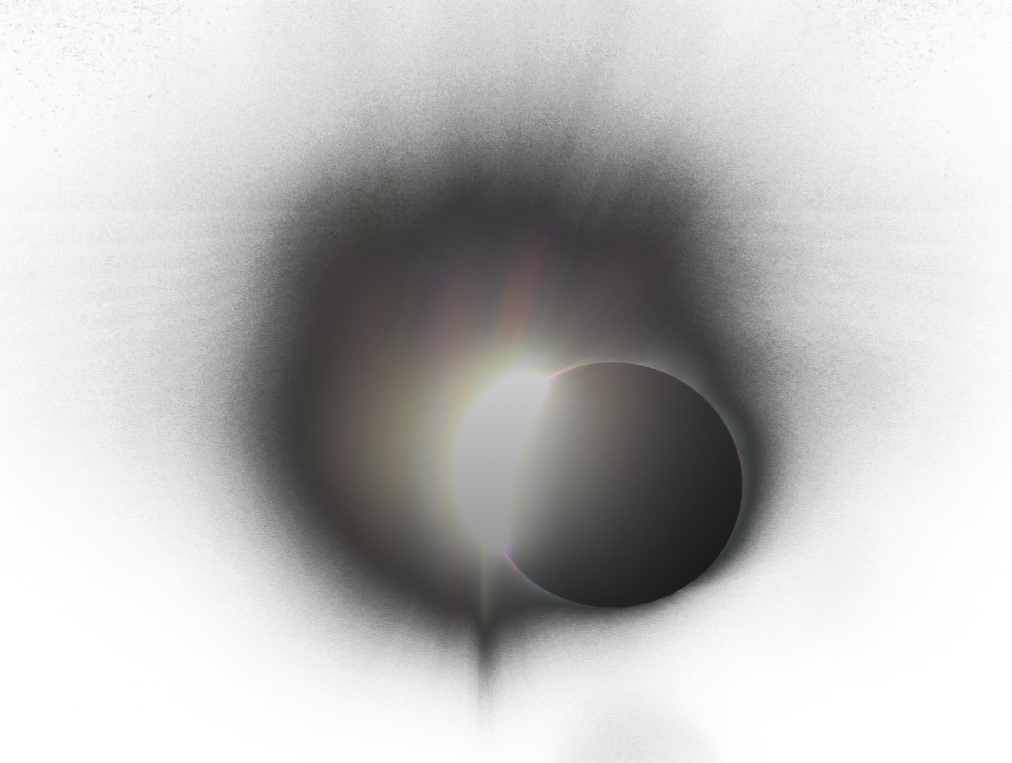
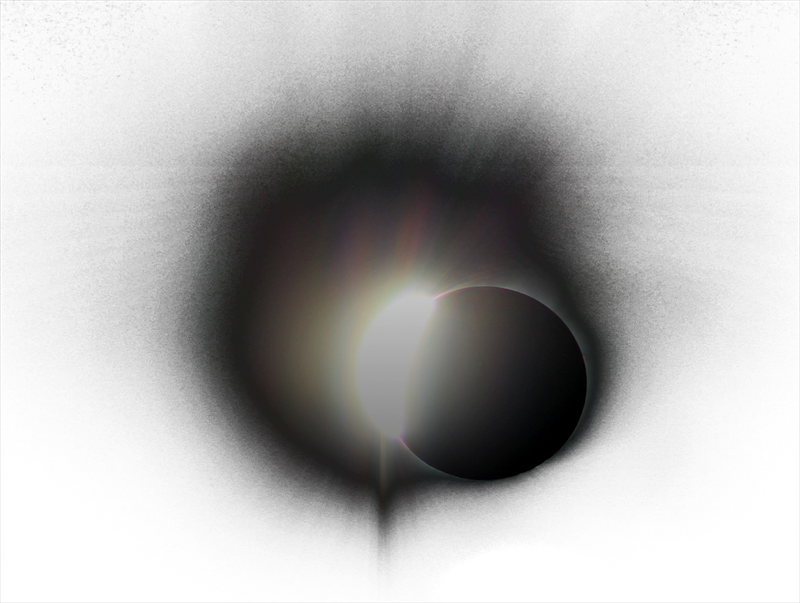
parallax ready

Changed region(s): [[0.25, 0.1791, 0.7812, 0.8657], [0.5625, 0.9254, 0.6562, 1.0]]

diff --git a/dist/css/style.min.css b/dist/css/style.min.css
@@ -1,1 +1,1 @@
-section.header{position:relative}section.header canvas{background:#1f1f1f;z-index:0}section.header img.eclipse{position:absolute;top:50%;left:50%;-webkit-transform:translate(-61%,-60%);transform:translate(-61%,-60%);-webkit-filter:brightness(90%);filter:brightness(90%)}section.header img.logo{position:absolute;width:300px;height:auto;top:50%;left:50%;-webkit-transform:translate(-50%,-50%);transform:translate(-50%,-50%);-webkit-filter:brightness(0) invert(1);filter:brightness(0) invert(1)}section.slide{width:100vw;height:100vh}
+section.header{display:-webkit-box;display:-ms-flexbox;display:flex;-webkit-box-orient:vertical;-webkit-box-direction:normal;-ms-flex-direction:column;flex-direction:column;-ms-flex-pack:distribute;justify-content:space-around;-ms-flex-line-pack:center;align-content:center}section.header canvas{background:#000;z-index:0}section.header img.eclipse{top:calc(50% - 450px)!important;left:calc(50% - 500px)!important;margin:0 auto;-webkit-filter:brightness(90%);filter:brightness(90%)}section.header img.logo{width:300px;height:auto;top:calc(50% - 69px)!important;left:calc(50% - 140px)!important;-webkit-filter:brightness(0) invert(1);filter:brightness(0) invert(1)}section.header .button{top:calc(85% - 20px)!important;left:calc(50% - 100px)!important}body,html{overflow:hidden}section.slide{width:100vw;height:100vh}.button{width:200px;line-height:40px;text-align:center;text-transform:lowercase;border-radius:20px;border:1px solid #fff;font-family:quicksand;font-weight:500;color:#fff;background:#000;cursor:pointer;-webkit-transition:.1s all ease-in-out;transition:.1s all ease-in-out}.button:hover{background:#fff;color:#000}

diff --git a/src/sass/_header.sass b/src/sass/_header.sass
@@ -1,23 +1,29 @@
 section.header
-  position: relative
+  //position: relative
+  display: flex
+  flex-direction: column
+  justify-content: space-around
+  align-content: center
+  
 
   canvas
-    background: #1f1f1f
+    background: #000
     z-index: 0
 
   img.eclipse
-    position: absolute
-    top: 50%
-    left: 50%
-    transform: translate(-61%, -60%)
+    top: calc(50% - 450px) !important
+    left: calc(50% - 500px) !important
+    margin: 0 auto
     filter: brightness(90%)
 
   img.logo
-    position: absolute
     width: 300px
     height: auto
-    top: 50%
-    left: 50%
-    transform: translate(-50%, -50%)
+    top: calc(50% - 69px) !important
+    left: calc(50% - 140px) !important
     filter: brightness(0) invert(1)
+
+  .button
+    top: calc(85% - 20px) !important
+    left: calc(50% - 100px) !important
   

diff --git a/index.html b/index.html
@@ -14,7 +14,7 @@
     <canvas class="stars-bg layer" width="800" height="800" data-depth="0"></canvas>
     <img src="dist/images/eclipse.png" class="eclipse layer" data-depth="0.1" alt="Eclipse">
     <img src="dist/images/spacex-logo.svg" class="logo layer" data-depth="0.25" alt="Logo SpaceX">
-    <div class="button layer" data-depth="0.3">Start mission</div>
+    <div class="button layer" data-depth="1">Start mission</div>
   </section>
   <script src="https://cdnjs.cloudflare.com/ajax/libs/parallax/2.1.3/parallax.min.js"></script>
   <script src="dist/js/main.min.js"></script>

diff --git a/src/sass/style.sass b/src/sass/style.sass
@@ -1,5 +1,25 @@
 @import '_header'
 
+html, body
+  overflow: hidden
+
 section.slide
   width: 100vw
   height: 100vh
+
+.button
+  width: 200px
+  line-height: 40px
+  text-align: center
+  text-transform: lowercase
+  border-radius: 20px
+  border: 1px solid white
+  font-family: 'quicksand'
+  font-weight: 500
+  color: white
+  background: #000000
+  cursor: pointer
+  transition: 0.1s all ease-in-out
+  &:hover
+    background: white
+    color: #000

diff --git a/dist/js/main.min.js b/dist/js/main.min.js
@@ -1,4 +1,7 @@
 console.log('js is ready');
+
+const scene = document.querySelector(".scene");
+const parallaxInstance = new Parallax(scene);
 const canvas = document.querySelector('.stars-bg');
 const ctx = canvas.getContext('2d');
 const centerPoint = {};

diff --git a/src/js/app.js b/src/js/app.js
@@ -1,1 +1,4 @@
 console.log('js is ready')
+
+const scene = document.querySelector(".scene")
+const parallaxInstance = new Parallax(scene)
